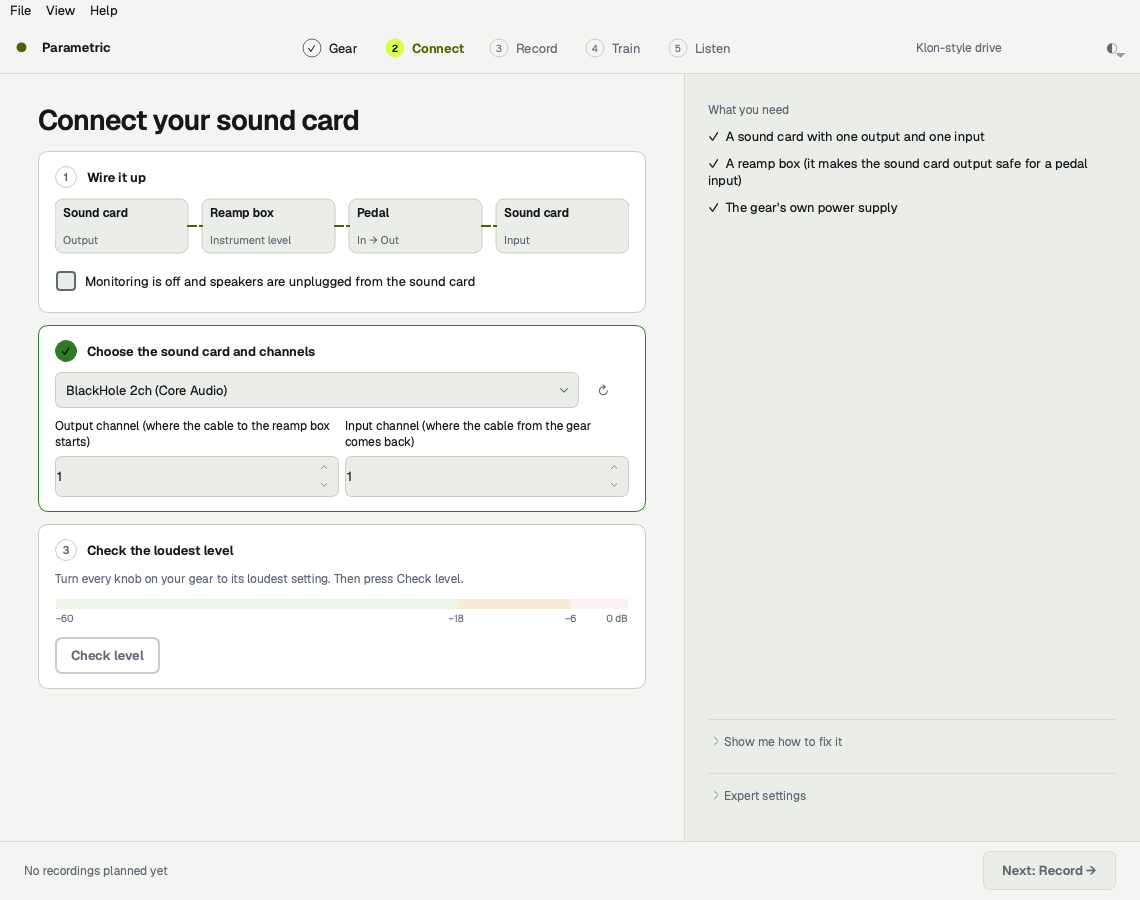
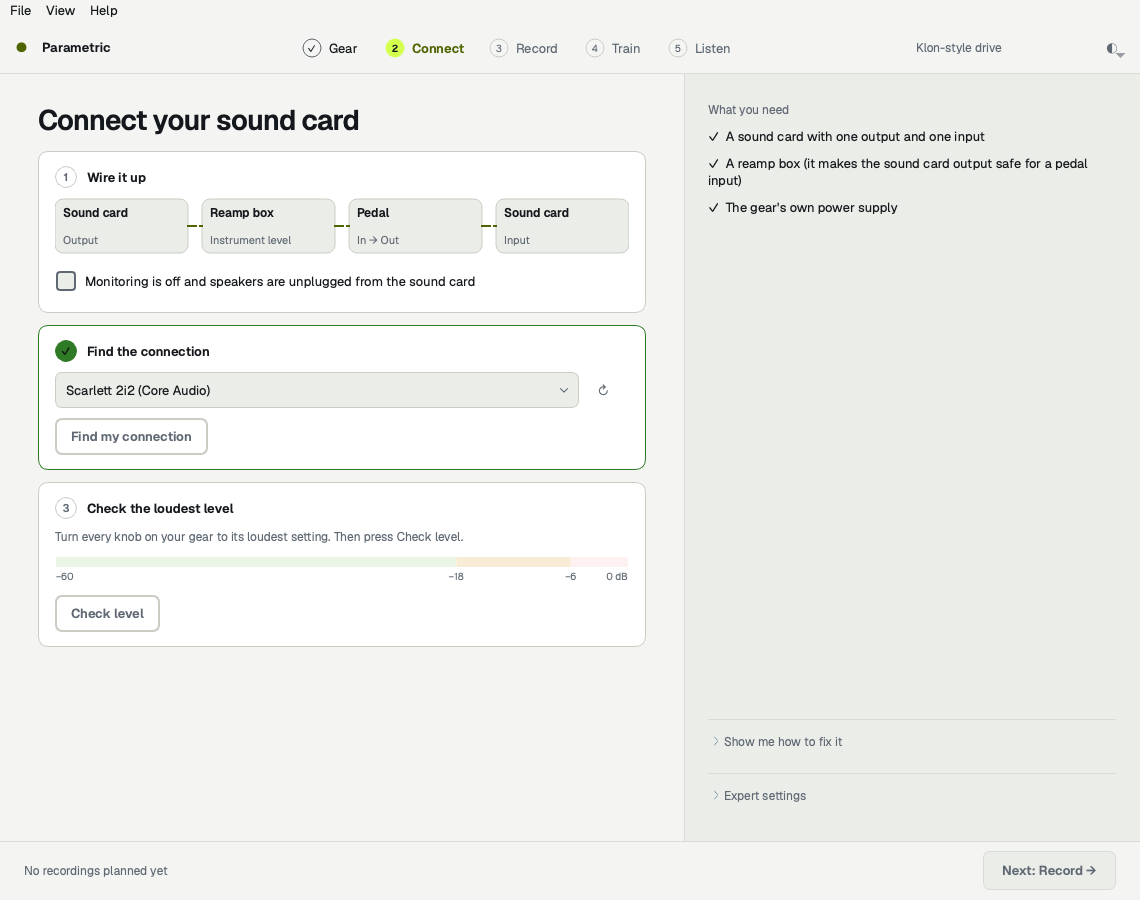
docs: describe Find my connection
The README, the UMC22 guide and PRODUCT.md describe the Find button.
The validation log records the test level and the loopback threshold.
The Connect screenshots show a found route on a stubbed sound card.

Changed region(s): [[0.0307, 0.3733, 0.5219, 0.7778], [0.5219, 0.4978, 0.5526, 0.5289]]

diff --git a/scripts/render_native.py b/scripts/render_native.py
@@ -27,6 +27,9 @@ import soundfile as sf
 from PySide6.QtCore import QProcess
 from PySide6.QtTest import QTest
 from PySide6.QtWidgets import QApplication
+from nam.capture.audio import DeviceInfo
+
+from parametric_mac.find_route import FindResult, Route
 
 ROOT = Path(__file__).resolve().parents[1]
 SIZES = (("desktop", (1140, 900)), ("compact", (800, 680)))
@@ -91,8 +94,25 @@ def build_window(inputs: Path):
     window._has_device = lambda: True
     window._device_sample_rate = lambda: 48000
     window._current_sample_rate_warnings = lambda: []
+    # The same sound card on every Mac, so the images never show this machine's devices.
+    device = DeviceInfo(0, "Scarlett 2i2", "Core Audio", 2, 2, 48000.0)
+    window.device_combo.clear()
+    window.device_combo.addItem(upstream.format_device_label(device), device)
     window.show()
     return window
+
+
+def find_route(window) -> None:
+    """Run Find with a stubbed scan that answers on Output 1 → Input 1; nothing is played."""
+    found = FindResult("found", (Route(1, 1, -16.0, ()),), ())
+    window._scan_outputs = lambda target, progress, cancel: found
+    window.find_button.click()
+    for _ in range(250):
+        if window._worker is None:
+            break
+        QTest.qWait(20)
+    if not window.find_result.text().startswith("Found:"):
+        raise RuntimeError(f"Find did not run: {window.find_result.text()!r}")
 
 
 def render_setup(r: Renderer) -> None:
@@ -105,6 +125,7 @@ def render_setup(r: Renderer) -> None:
     w.gear_next_button.click()
     r.shoot("connect-not-ready")
     w.wire_check.setChecked(True)
+    find_route(w)
     w._on_route_test_success(ROUTE_OK)
     r.shoot("connect-ready")
 

diff --git a/README.md b/README.md
@@ -72,7 +72,7 @@ You can explore the app before connecting hardware. **Recording needs a reamp bo
 2. **Gear.** Type a name and choose **Pedal** or **Amp**. The knobs and switches you want to turn later are tiles: click **+ Knob** or **+ Switch** to add one, × to remove one, and a name or range to change it. Pedal starts with Drive + Tone; Amp starts with six knobs + Bright. Write down the controls you keep fixed, such as "Level at 5". The drawing and the estimate ("~40 recordings · ~29 min") follow your changes. **Next: Connect** creates the project in `~/Music/Parametric/<name>`; click **Change** to choose another empty folder.
 3. **Connect.** Three small stages, top to bottom:
    - **Wire it up:** sound card output → reamp box → pedal → sound card input (an amp goes through a load box; never connect a speaker output to the sound card). Turn monitoring off, unplug speakers from the sound card, and tick the checkbox.
-   - **Choose the sound card and channels:** pick your sound card. The output channel is where the cable to the reamp box starts; the input channel is where the cable from your gear comes back. If the sound card does not run at 48 kHz, the app says so and shows an **Open Audio MIDI Setup** button.
+   - **Find the connection:** pick your sound card. Click **Find my connection**. The app plays a quiet click on each output, one at a time, and listens on every input. It sets the channels for you and ignores inputs that only copy the output (a digital loopback). You can still set the channels by hand under **Expert settings**. If the sound card does not run at 48 kHz, the app says so and shows an **Open Audio MIDI Setup** button.
    - **Check the loudest level:** turn every knob on your gear to its loudest setting and click **Check level**. When the peak is good, do not touch the sound card gain again for this project.
 
    **Show me how to fix it** lists the common problems. The [UMC22 guide](docs/hardware-umc22.md) and the [amp guide](docs/hardware-amps.md) are two example setups, including the optional timing loopback (under **Expert settings**).
@@ -100,6 +100,7 @@ For amp controls, select **Amp** on Gear and build your own layout from the star
 | uv or Python download fails | Check your internet connection and rerun. You can also install uv with `brew install uv` or [Astral's installer](https://docs.astral.sh/uv/getting-started/installation/). |
 | Finder will not open a `.command` file | Launch it from Terminal using `./Capture.command`. For a downloaded file blocked by macOS, use the normal Finder/Open or Privacy & Security flow if you trust the source. |
 | No interface or no input | Connect your sound card, press refresh (↻) on Connect and select it. Allow microphone access for the launching app, usually Terminal or Python, in System Settings → Privacy & Security → Microphone. |
+| Find my connection finds nothing | Check the cables, the power of the reamp box and your gear, and that the checkbox steps are done. Then use **Choose channels myself**. |
 | Sample-rate warning | Click **Open Audio MIDI Setup** on Connect, set your sound card to 48 kHz, then check the level again. |
 | Loopback not detected | Check the optional cable and channels, or disable the optional loopback if you have not wired it. It is off by default. |
 | Silence, clipping or timing warnings | Read the message on Record and the hardware guide. Correct the route; if the level must change, use **Start a new capture with these controls** rather than mixing levels. |

diff --git a/PRODUCT.md b/PRODUCT.md
@@ -14,7 +14,7 @@ Pedal and amp owners who want to capture knobs and named switches and train a co
 Guide the physical task and local model workflow through Connect, Plan, Capture, Train and Review, with practical hardware instructions and recoverable saved projects.
 
 ## Capabilities and Constraints
-The native app implements the approved Console redesign (2026-10-17): a Start page with recent projects, then Gear, Connect, Record, Train and Listen, in dark and light with a Match macOS / Light / Dark switch. Gear holds the editable control tiles (Add knob / Add switch / ×, range and position editors, Pedal / Amp starters) and creates the project in `~/Music/Parametric/<name>` or a chosen empty folder. Connect has three stages: wiring confirmation, sound card and channels (with a sample-rate block), and a loudest-level check. Record offers three detail levels (Fast, Good, Max) with Decent and Overkill under Expert settings; counts come from the real planner. It models 1–24 total controls, including named switches, with at least one knob. Every switch combination receives training and held-out settings. Projects are bounded to 32 combinations and 5,000 recordings; more than eight knobs use axis boundary sweeps. Unmodeled controls stay fixed. Coverage is not a measured sound-quality score. Presets preserve physical ranges; grid capacity bounds small plans.
+The native app implements the approved Console redesign (2026-10-17): a Start page with recent projects, then Gear, Connect, Record, Train and Listen, in dark and light with a Match macOS / Light / Dark switch. Gear holds the editable control tiles (Add knob / Add switch / ×, range and position editors, Pedal / Amp starters) and creates the project in `~/Music/Parametric/<name>` or a chosen empty folder. Connect has three stages: wiring confirmation, Find the connection (the sound card, a sample-rate block, and **Find my connection**, which plays quiet clicks on one output at a time and sets the channels; manual channels are under Expert settings), and a loudest-level check. Record offers three detail levels (Fast, Good, Max) with Decent and Overkill under Expert settings; counts come from the real planner. It models 1–24 total controls, including named switches, with at least one knob. Every switch combination receives training and held-out settings. Projects are bounded to 32 combinations and 5,000 recordings; more than eight knobs use axis boundary sweeps. Unmodeled controls stay fixed. Coverage is not a measured sound-quality score. Presets preserve physical ranges; grid capacity bounds small plans.
 
 Recording uses the existing native capture engine and QA. Record shows the positions to set, marks controls that changed since the last take, and records only the setting it shows (button or Space). A clipped take must be recorded again; the app never suggests changing levels, and a new capture is the way to set a lower level. Accepted takes lock the plan; before the first take the level and the controls can still change. Existing source recordings are retained. Connection readiness must be checked again after reopening.
 

diff --git a/docs/validation.md b/docs/validation.md
@@ -1,5 +1,11 @@
 # Validation and first Mac session
 
+## Find my connection, Phase 2 (October 20, 2026)
+
+The full suite passed on this Mac: **193 tests**, exit code zero, with 20 upstream deprecation warnings. New tests: `tests/test_find_route.py` (click detection, loopback test, route choice), `tests/test_find_scan.py` (one output at a time on a synthetic rig, several routes, cancel, dropout, large devices) and `tests/test_ui_find.py` (the Connect button, every result state, cancel while it runs, device change). Line coverage: `find_route.py` 96%, `find_scan.py` 100% (the sounddevice call is excluded; it needs a sound card); the Connect code runs only in GUI subprocess tests, so it has no coverage number.
+
+Find plays upstream's click preamble at **−20 dBFS** (`FIND_AMPLITUDE = 0.1`), below the route test level. With synthetic returns, detection works down to about −60 dBFS over a −90 dBFS noise floor and −50 dBFS over −80 dBFS, for round trips up to 20,000 samples; the clicks must stand about 30 dB above the noise. A return is a digital loopback when, after delay alignment and gain matching, the residual is **−80 dB** or lower. Not yet verified on real sound cards.
+
 ## Console redesign (October 19, 2026)
 
 The full suite passed on this Mac: **122 tests**, exit code zero, with 20 upstream deprecation warnings. New tests cover the theme tokens and WCAG AA contrast in both modes, the style sheet and appearance switch, the shell, and every page (Start, Gear, Connect, Record, Train, Listen), including the six Review Focus cases of the [Phase 1 plan](superpowers/plans/2026-10-17-ux-redesign-phase1.md). Line coverage of the pure modules: `recent.py` 97%, `ui/copy.py` 97%, `ui/tokens.py` 98%, `workflow.py` 85%. The user approved the light theme from offscreen screenshots. Not yet verified: native macOS menus and popups in each theme, real CoreAudio recording, and full MPS training with the new screens.

diff --git a/docs/hardware-umc22.md b/docs/hardware-umc22.md
@@ -40,7 +40,7 @@ The optional reference route uses INST 2 at low gain. A line output may overload
 3. Start with OUTPUT, reamp level and input gains low. Leave phantom power off for this direct pedal setup. Connect the pedal's correct supply.
 4. In macOS Audio MIDI Setup, select the UMC22 and use 48 kHz for input/output. Use the format the device exposes; writing a 24-bit WAV does not increase the interface's converter resolution.
 5. Grant microphone permission to Terminal/Python/the app that launches capture if macOS asks. Device naming may be generic USB audio, so identify the UMC22 by unplugging and reconnecting if needed.
-6. In **Connect**, select the same UMC22 device for input and output. Main send/return = channel 1. Optional loopback send/return = channel 2. Channels in the app are numbered from one. Start with a 512-frame buffer; increase it if dropouts occur.
+6. In **Connect**, select the UMC22 and click **Find my connection**. It should find Output 1 → Input 1. If the optional loopback cable is plugged in, Find shows two connections: choose **Use Output 1 → Input 1**. To set the channels by hand, open **Expert settings**: main send/return = channel 1, optional loopback send/return = channel 2. Channels in the app are numbered from one. Start with a 512-frame buffer; increase it if dropouts occur.
 7. Run **Test connection** before recording training examples. Verify a clean return, a clean reference if enabled, and a detected timing signal. Software cannot turn DIRECT MONITOR off for you.
 
 ## Set levels once
